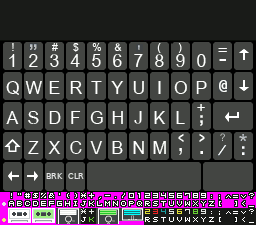
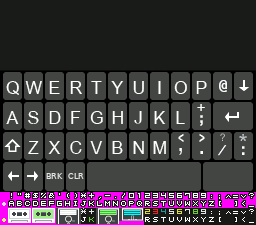
Improved debugger, more PIA cleanup, updated readme for 1.6

Changed region(s): [[0.0, 0.1556, 1.0, 0.3111]]

diff --git a/arm9/source/vdg.h b/arm9/source/vdg.h
@@ -75,23 +75,23 @@
 
 typedef enum
 {                       // Colors   Res.     Bytes BASIC
-    ALPHA_INTERNAL = 0, // 2 color  32x16    512   Default
-    ALPHA_EXTERNAL,     // 4 color  32x16    512
-    SEMI_GRAPHICS_4,    // 8 color  64x32    512
-    SEMI_GRAPHICS_6,    // 8 color  64x48    512
-    SEMI_GRAPHICS_8,    // 8 color  64x64   2048
-    SEMI_GRAPHICS_12,   // 8 color  64x96   3072
-    SEMI_GRAPHICS_24,   // 8 color  64x192  6144
-    GRAPHICS_1C,        // 4 color  64x64   1024
-    GRAPHICS_1R,        // 2 color  128x64  1024
-    GRAPHICS_2C,        // 4 color  128x64  1536
-    GRAPHICS_2R,        // 2 color  128x96  1536   PMODE0
-    GRAPHICS_3C,        // 4 color  128x96  3072   PMODE1
-    GRAPHICS_3R,        // 2 color  128x192 3072   PMODE2
-    GRAPHICS_6C,        // 4 color  128x192 6144   PMODE3
-    GRAPHICS_6R,        // 2 color  256x192 6144   PMODE4
-    DMA,                // 2 color  256x192 6144
-    UNDEFINED,          // Undefined
+    /*0 */  ALPHA_INTERNAL = 0, // 2 color  32x16    512   Default
+    /*1 */  ALPHA_EXTERNAL,     // 4 color  32x16    512
+    /*2 */  SEMI_GRAPHICS_4,    // 8 color  64x32    512
+    /*3 */  SEMI_GRAPHICS_6,    // 8 color  64x48    512
+    /*4 */  SEMI_GRAPHICS_8,    // 8 color  64x64   2048
+    /*5 */  SEMI_GRAPHICS_12,   // 8 color  64x96   3072
+    /*6 */  SEMI_GRAPHICS_24,   // 8 color  64x192  6144
+    /*7 */  GRAPHICS_1C,        // 4 color  64x64   1024
+    /*8 */  GRAPHICS_1R,        // 2 color  128x64  1024
+    /*9 */  GRAPHICS_2C,        // 4 color  128x64  1536
+    /*10*/  GRAPHICS_2R,        // 2 color  128x96  1536   PMODE0
+    /*11*/  GRAPHICS_3C,        // 4 color  128x96  3072   PMODE1
+    /*12*/  GRAPHICS_3R,        // 2 color  128x192 3072   PMODE2
+    /*13*/  GRAPHICS_6C,        // 4 color  128x192 6144   PMODE3
+    /*14*/  GRAPHICS_6R,        // 2 color  256x192 6144   PMODE4
+    /*15*/  DMA,                // 2 color  256x192 6144
+    /*16*/  UNDEFINED,          // Undefined
 } video_mode_t;
 
 

diff --git a/arm9/source/vdg.c b/arm9/source/vdg.c
@@ -1249,7 +1249,17 @@ ITCM_CODE video_mode_t vdg_get_mode(void)
                 break;
             case 0x0e:
                 mode = GRAPHICS_6R;
-                if (sam_video_mode == 0x04) sam_2x_rez = 2;     // Essentially 256x96 using 3K
+                if (sam_video_mode == 0x04)
+                {
+                    if (force_vdg_mismatch_lower)
+                    {
+                        mode = GRAPHICS_3C; // Bump down to 3K lower-rez mode
+                    }
+                    else
+                    {
+                        sam_2x_rez = 2;     // Essentially 256x96 using 3K
+                    }
+                }
                 break;
         }
     }
@@ -1261,25 +1271,21 @@ ITCM_CODE video_mode_t vdg_get_mode(void)
             mode = ALPHA_INTERNAL;
             // Character bit.7 selects SEMI_GRAPHICS_4;
         }
-        else if ( sam_video_mode == 0 &&
-                (pia_video_mode & 0x02) )
+        else if ( sam_video_mode == 0 && (pia_video_mode & 0x02) )
         {
             mode = SEMI_GRAPHICS_6;
             // Character bit.7=0 selects ALPHA_EXTERNAL;
             // Character bit.7=1 selects SEMI_GRAPHICS_6;
         }
-        else if ( sam_video_mode == 2 &&
-                (pia_video_mode & 0x02) == 0 )
+        else if ( sam_video_mode == 2 && (pia_video_mode & 0x02) == 0 )
         {
             mode = SEMI_GRAPHICS_8;
         }
-        else if ( sam_video_mode == 4 &&
-                (pia_video_mode & 0x02) == 0 )
+        else if ( sam_video_mode == 4 && (pia_video_mode & 0x02) == 0 )
         {
             mode = SEMI_GRAPHICS_12;
         }
-        else if ( sam_video_mode == 6 &&
-                (pia_video_mode & 0x02) == 0 )
+        else if ( sam_video_mode == 6 && (pia_video_mode & 0x02) == 0 )
         {
             mode = SEMI_GRAPHICS_24;
         }

diff --git a/arm9/source/pia.c b/arm9/source/pia.c
@@ -611,11 +611,14 @@ ITCM_CODE static uint8_t io_handler_pia0_cra(uint16_t address, uint8_t data, mem
         else
             mux_select &= ~0x01;
 
-        // When disabling the interrupt, we also clear it...
-        if (pia0_ca1_int_enabled && !(data & PIA_CR_INTR))
+        // When enabling the interrupt, if we have interrupt pending, fire it!
+        if (!pia0_ca1_int_enabled && (data & PIA_CR_INTR))
         {
-            cpu_firq(0);
-            memory_RAM[PIA0_CRA] &= ~PIA_CR_IRQ_STAT;
+            if (memory_RAM[PIA0_CRA] & PIA_CR_IRQ_STAT)
+            {
+                pia0_ca1_int_enabled = (data & PIA_CR_INTR);
+                cpu_firq(INT_FIRQ);
+            }
         }
 
         pia0_ca1_int_enabled = (data & PIA_CR_INTR);
@@ -708,7 +711,18 @@ ITCM_CODE static uint8_t io_handler_pia0_crb(uint16_t address, uint8_t data, mem
         else
             mux_select &= ~0x02;
 
+        // When enabling the interrupt, if we have interrupt pending, fire it!
+        if (!pia0_cb1_int_enabled && (data & PIA_CR_INTR))
+        {
+            if (memory_RAM[PIA0_CRB] & PIA_CR_IRQ_STAT)
+            {
+                pia0_cb1_int_enabled = (data & PIA_CR_INTR);
+                cpu_irq(INT_IRQ);
+            }
+        }
+        
         pia0_cb1_int_enabled = (data & PIA_CR_INTR);
+        
 
         pia0_ddr_b = (data & PIA_DDR); // 0 = DDR, PIA_DDR = Normal Data Register
 
@@ -948,7 +962,6 @@ ITCM_CODE static uint8_t io_handler_pia1_pb(uint16_t address, uint8_t data, mem_
             // Report output bits
             data &= ~pia1_ddr_b_mask;
             data |= (pia1_b_output_latch & pia1_ddr_b_mask);
-            memory_RAM[PIA1_PB] = data;
         }
         else
         {

diff --git a/arm9/source/DracoDS.c b/arm9/source/DracoDS.c
@@ -38,6 +38,7 @@
 #include "disk.h"
 #include "sam.h"
 #include "fdc.h"
+#include "vdg.h"
 #include "printf.h"
 
 // -----------------------------------------------------------------
@@ -376,6 +377,15 @@ void ShowDebugger(void)
         sprintf(tmp, "D%d %-7ld %04lX  D%d %-7ld %04lX", i, (s32)debug[i], (debug[i] < 0xFFFF ? debug[i]:0xFFFF), 4+i, (s32)debug[4+i], (debug[4+i] < 0xFFFF ? debug[4+i]:0xFFFF));
         DSPrint(0, idx++, 0, tmp);
     }
+    
+    idx++;
+    sprintf(tmp, "SVM=%02X X%d PVM=%02X CM=%02X   PC=%04X", sam_video_mode, sam_2x_rez, pia_video_mode, current_mode, cpu.pc);
+    DSPrint(0, idx++, 0, tmp);
+    
+    sprintf(tmp, "DDR=%d%d%d%d  MSK=%02X %02X %02X %02X  ST=%d", (pia0_ddr_a ? 1:0), (pia0_ddr_b ? 1:0), (pia1_ddr_a ? 1:0), (pia1_ddr_b ? 1:0), pia0_ddr_a_mask, pia0_ddr_b_mask, pia1_ddr_a_mask, pia1_ddr_b_mask, cpu.cpu_state);
+    DSPrint(0, idx++, 0, tmp);
+    sprintf(tmp, "          OUT=%02X %02X %02X %02X  LA=%02X", pia0_a_output_latch, pia0_b_output_latch, pia1_a_output_latch, pia1_b_output_latch, cpu.irq_asserted | cpu.firq_asserted | cpu.nmi_latched);
+    DSPrint(0, idx++, 0, tmp);
 }
 
 

diff --git a/arm9/source/DracoUtils.c b/arm9/source/DracoUtils.c
@@ -50,6 +50,7 @@ u32 file_crc __attribute__((section(".dtcm")))  = 0x00000000;  // Our global fil
 u16 JoyState   __attribute__((section(".dtcm"))) = 0;           // Joystick State and Key Bits
 
 u8 option_table=0;
+u8 force_vdg_mismatch_lower = 0;
 
 const char szKeyName[MAX_KEY_OPTIONS][16] = {
   "JOYSTICK UP",
@@ -1006,9 +1007,10 @@ void SetDefaultGameConfig(void)
         Cursors();
     }
 
-    if (strstr(initial_file, "GALACTIC"))
+    force_vdg_mismatch_lower = 0;
+    if (strstr(initial_file, "GALACTICAT") || strstr(initial_file, "GALACTIC AT"))
     {
-        myConfig.forceCSS = 1;
+        force_vdg_mismatch_lower = 1;
     }
     
     if (strstr(initial_file, "BUZZARD"))
@@ -1087,7 +1089,7 @@ void FindConfig(void)
     clear_firq_immediate = 0;
     if (strstr(initial_file, "SHAMUS"))
     {
-        clear_firq_immediate = 1;
+        clear_firq_immediate = 0;
     }
 }
 

diff --git a/arm9/source/sam.c b/arm9/source/sam.c
@@ -92,7 +92,7 @@ static uint8_t io_handler_vector_redirect(uint16_t address, uint8_t data, mem_op
  *  param:  Call address, data byte for write operation, and operation type
  *  return: Status or data byte
  */
-ITCM_CODE uint8_t io_handler_sam_write(uint16_t address, uint8_t data, mem_operation_t op)
+uint8_t io_handler_sam_write(uint16_t address, uint8_t data, mem_operation_t op)
 {
     uint16_t    register_addr;
 

diff --git a/arm9/source/DracoUtils.h b/arm9/source/DracoUtils.h
@@ -50,6 +50,7 @@ extern u32 file_size;
 extern u32 tape_pos;
 extern u16 tape_motor;
 extern u8  bDISKBIOS_found;
+extern u8  force_vdg_mismatch_lower;
 
 typedef struct {
   char szName[MAX_FILENAME_LEN+1];

diff --git a/README.md b/README.md
@@ -285,10 +285,10 @@ And then move the soundbank.h file to the arm9/sources directory
 Versions :
 -----------------------
 
-V1.6: 02-Aug-2026 by wavemotion-dave
-* Shamus now runs but there is no sound.
+V1.6: 05-Aug-2026 by wavemotion-dave
 * Improved accuracy on PIA handling (DDR and masking supported) - sound and keyboard reading more robust. More games read keys/joystick more correctly.
 * Lucifer's Kingdom (CoCo Port) now running correctly.
+* Shamus now runs but there is no sound.
 * Massively improved .DSK and .CAS type detection and loading. Use START to load game... SELECT to run after loading.
 * Optimizations to improve emulation speed by 5-10% depending on the game. Tape loading slightly faster.
 * Dragon32 games default to Black/White vs Artifacting to reflect PAL vs NTSC.
